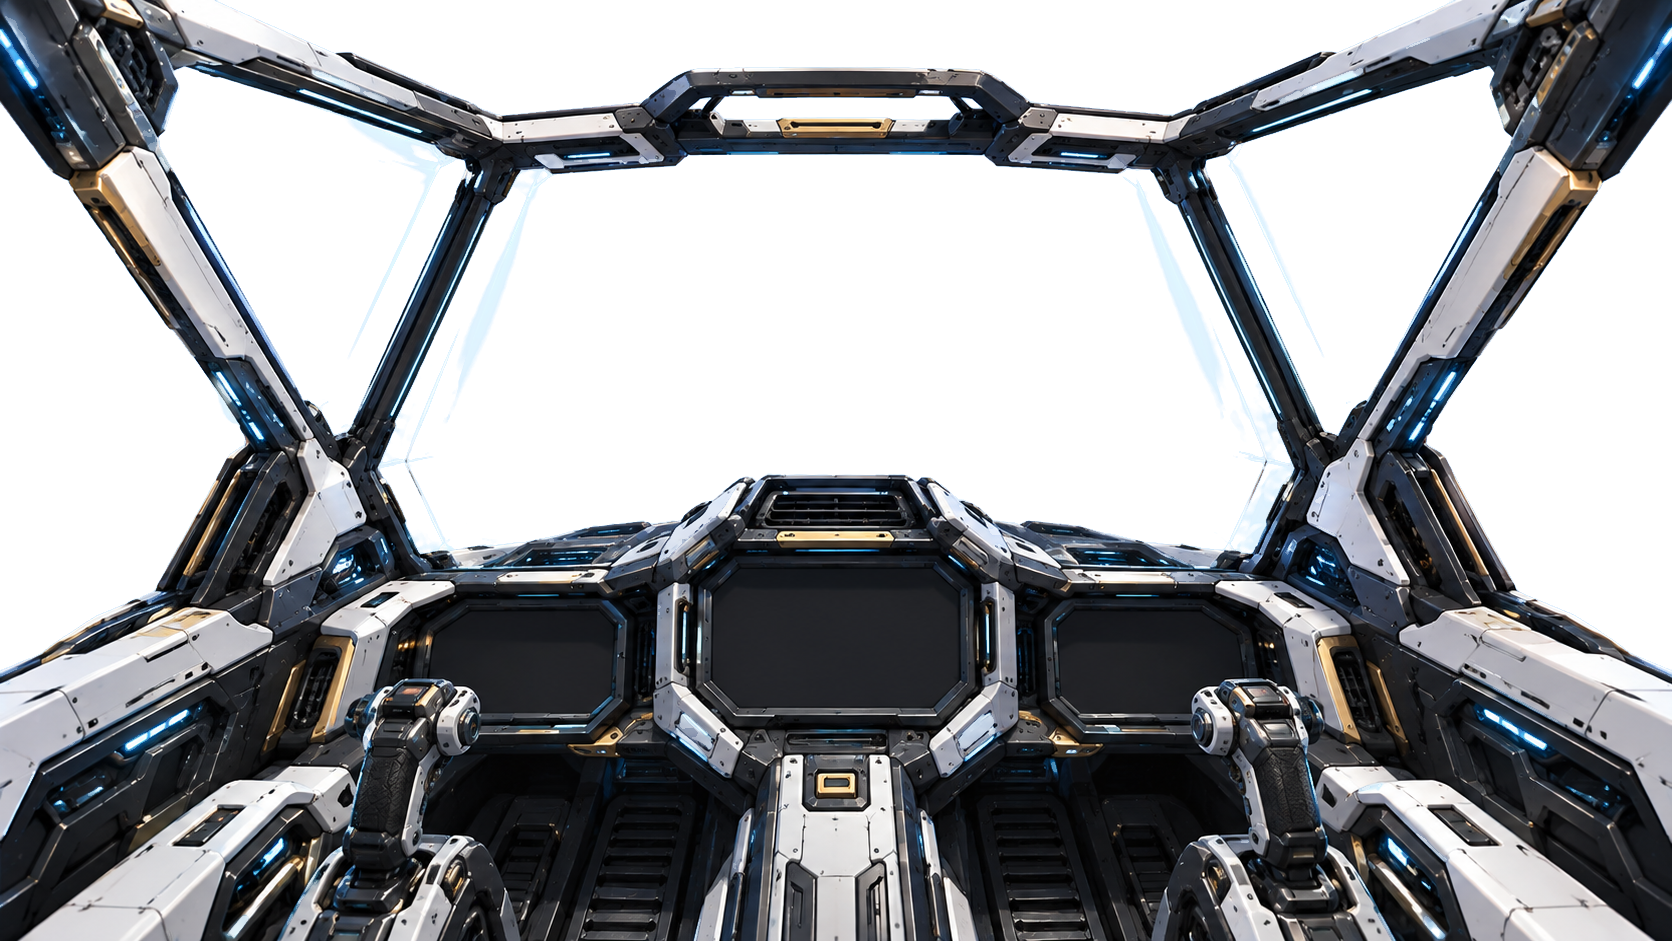
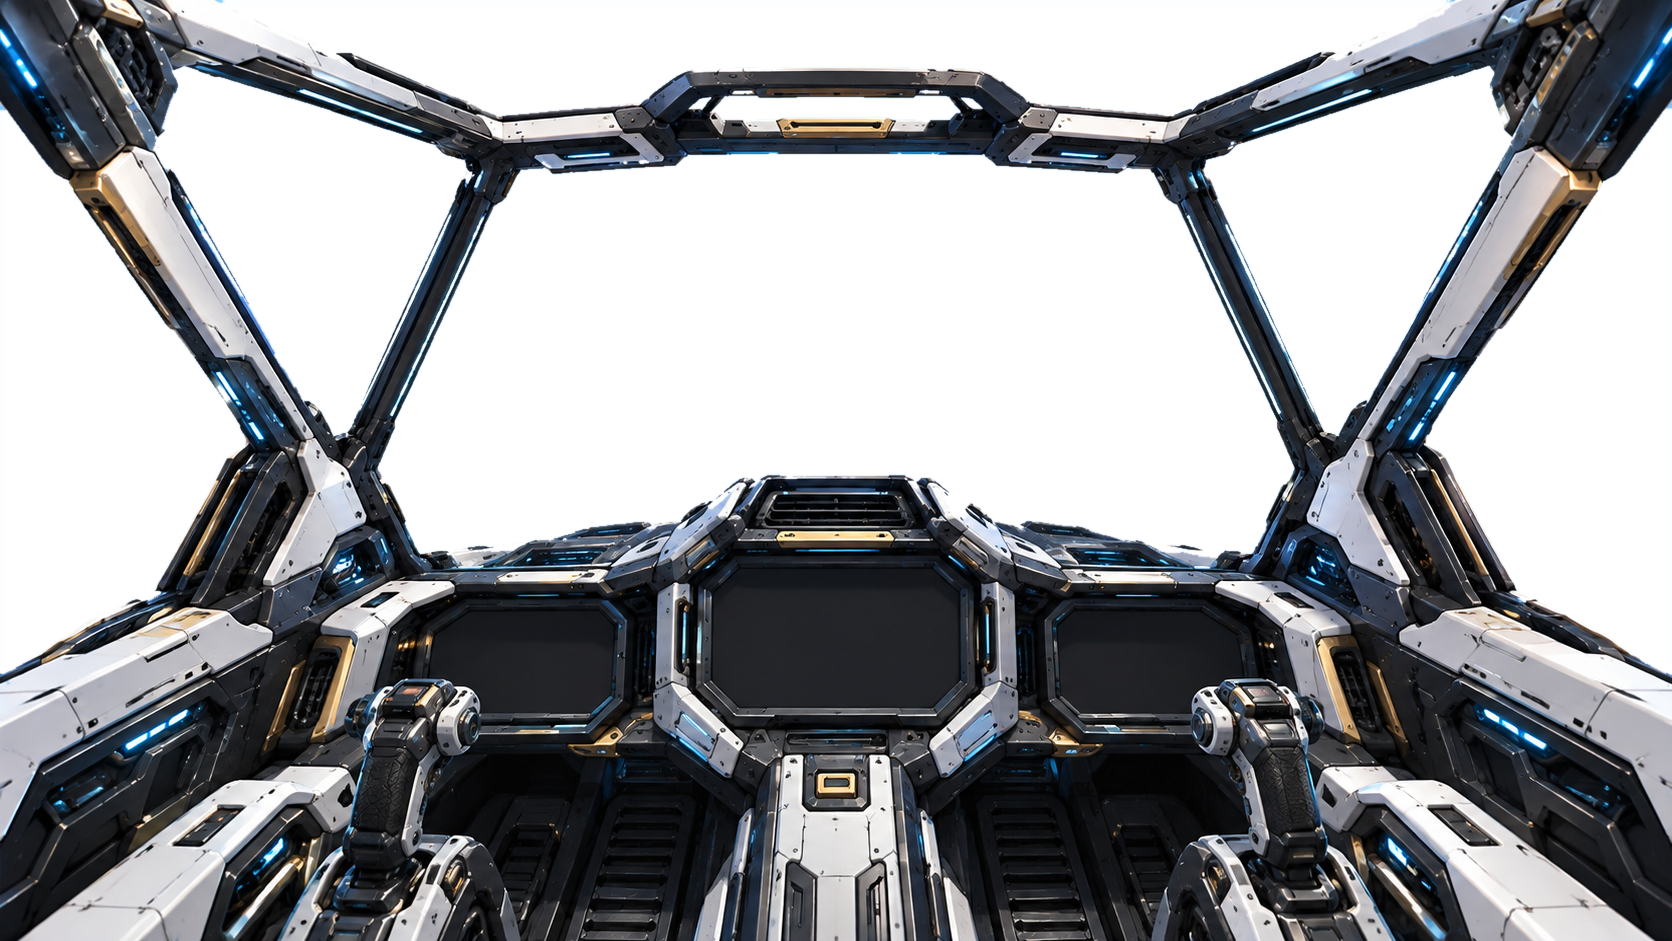
Cockpit overlays: glass fully transparent; design: cockpit crosshair + side-screen comms (enemies left, friendlies right, codec-style contact list)
Claude-Session: https://claude.ai/code/session_01CQJyr5F1eic1HejyBsZoC9

diff --git a/docs/DESIGN.md b/docs/DESIGN.md
@@ -145,6 +145,16 @@ The current "Aquila / Solara Jump Gate" objects are technically warp gates (buil
   overlay image (PNG, transparent glass, landscape phone size). Chosen: `art/cockpit/cockpit_B.png` (wider glass);
   `cockpit_A.png` is the spare. The dashboard screens are blank on purpose: the game draws radar, weapons and
   shield/hull on them (concept: `art/reference/cockpit_hud_concept.png`).
+- **Cockpit view crosshair:** like the concept image: a circle reticle with a centre dot, a heading tape across the
+  top (240 · 250 · 260 …), SPEED and ALTITUDE bars either side of the reticle.
+- **Comms redesign: side holo screens** (replaces the bottom call panel, so it stops covering the view):
+  - Screens slide in from the sides: **enemies on the LEFT, friendlies on the RIGHT**. Two people can talk at once
+    (for example an enemy taunt and a friendly reply).
+  - Each screen: the portrait, with the line written UNDER it on a white, see-through panel, so you still see the fight.
+  - Tap to pull up the comms console; tap again and it drops back down. It holds the chat log (what's been said) and
+    a box to type a message.
+  - Calling works like Metal Gear's codec, but with a CONTACT LIST instead of a frequency number. You can only call
+    someone who is in the same star system.
 - **Dynamic music:** the owner has 28 tracks (WAV). They play only for big moments — entering faction space, missions,
   epic and boss fights — with fades between moods. Convert to OGG and put them in a music pack. Needs the files and a
   rough mood for each.
